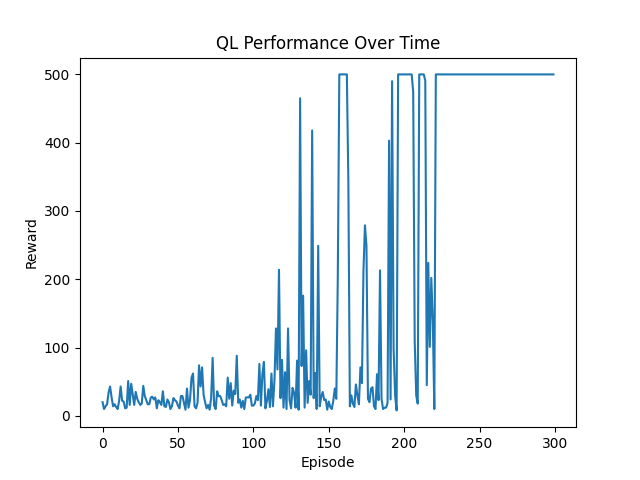
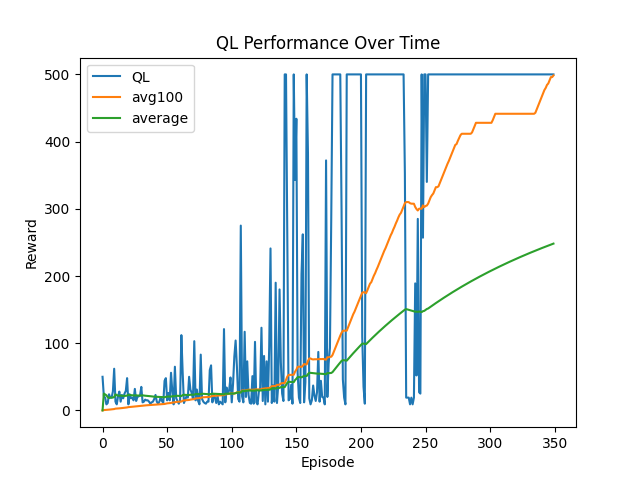
seeding for plotting QL

diff --git a/src/agents/ql.py b/src/agents/ql.py
@@ -23,7 +23,7 @@ else:
     sys.exit(1)
 
 # Import the plotting function
-from src.utils.plot import plot_episode_durations
+from src.utils.plot import plot_single_episode, plot_multiple_episodes
 
 # Import a function for discretizing the state space
 from src.utils.bucketize import bucketize
@@ -39,6 +39,7 @@ class QLAgent:
         discount_factor (float): The discount factor used in the q-learning algorithm. 
         epsilon (float): The value of the current epsilon threshold.
         min_epsilon (float): The minimum value that the epsilon threshold can take.
+        seed (int): The seed used for resetting the environment.
     
     Methods:
         select_action(state): Selects an action using the epsilon greedy policy.
@@ -52,7 +53,8 @@ class QLAgent:
                  n_actions: int,
                  min_learning_rate: float,
                  discount_factor: float,
-                 min_epsilon: float) -> None:
+                 min_epsilon: float,
+                 seed: int) -> None:
         
         self.n_actions = n_actions
 
@@ -64,6 +66,8 @@ class QLAgent:
         
         self.epsilon = float
         self.min_epsilon = min_epsilon
+
+        self.seed = seed
 
     def select_action(self, state: tuple[float, float, float, float]) -> int:
         """Selects an action using the epsilon greedy policy.
@@ -143,7 +147,7 @@ class QLAgent:
 
         for i_episode in tqdm(range(num_episodes)):
             # Get the observation from the environment
-            obs, _ = env.reset()
+            obs, _ = env.reset(seed = self.seed)
 
             # Discretize the continuous values corresponding to the current state
             state = bucketize(obs, obs_bounds)
@@ -185,25 +189,40 @@ if __name__ == "__main__":
     env = gym.make('CartPole-v1')
     
     # Set the hyper-parameters
-    num_episodes = 300
+    num_episodes = 350
     min_learning_rate = 0.01
     discount_factor = 0.99
-    min_epsilon = 0.01
+    min_epsilon = 0.005
     n_actions = env.action_space.n
 
-    # Declare the Q-learning agent
-    agent = QLAgent(
-        n_actions=n_actions,
-        min_learning_rate = min_learning_rate,
-        discount_factor = discount_factor,
-        min_epsilon = min_epsilon
-    )
+    # Declare a list to store the performance of the algorithm over seeds
+    episode_durations_over_seeds = []
 
-    # Train the agent
-    episode_durations = agent.train(env=env, num_episodes=num_episodes)
+    for seed in [1, 2, 3, 5, 8]: # Fibonacci seeds
 
-    # Plot the episode durations
-    plot_episode_durations(algorithm="QL", episode_durations=episode_durations, num_episodes=num_episodes)
+        # Set the seed
+        random.seed(seed)
+        np.random.seed(seed)
+
+        # Declare the QL agent
+        agent = QLAgent(n_actions = n_actions,
+                        min_learning_rate = min_learning_rate,
+                        discount_factor = discount_factor,
+                        min_epsilon = min_epsilon,
+                        seed = seed)
+
+        # Train the agent
+        episode_durations = agent.train(env = env, num_episodes = num_episodes)
+
+        # Record the performance of the algorithm
+        episode_durations_over_seeds.append(episode_durations)
+
+    # Plot the performance recorded over the last seed
+    seed_episode_durations = episode_durations_over_seeds[0]
+    plot_single_episode(algorithm = "QL", episode_durations = seed_episode_durations, num_episodes = num_episodes)
+
+    # Plot the performance of the algorithm over the seeds
+    plot_multiple_episodes(algorithm = "QL", episode_durations_over_seeds = episode_durations_over_seeds)
 
     # Close the environment
     env.close()
